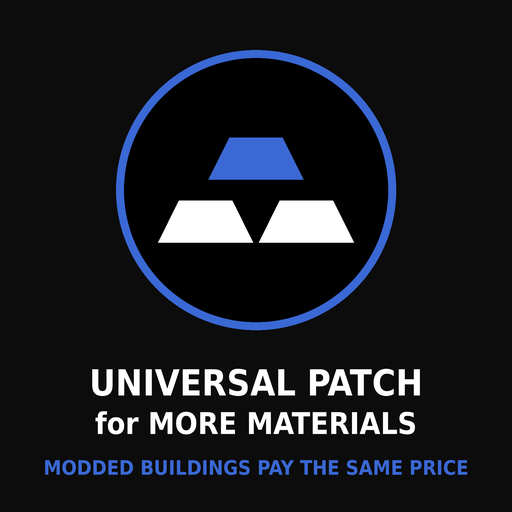
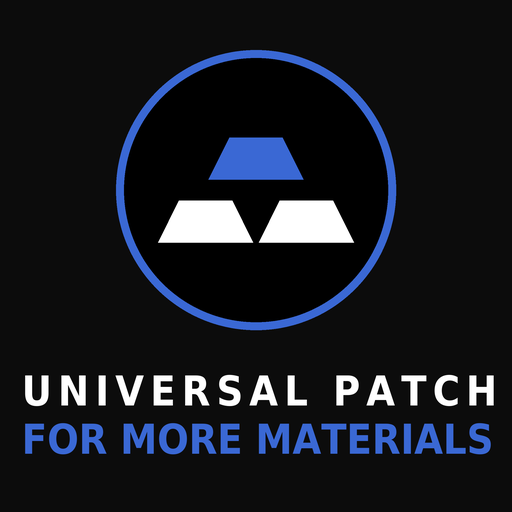
assets: align preview with the family (drop tagline, two equal tracked lines, accent line 2)
Claude-Session: https://claude.ai/code/session_01P8KGqMWXs1NiRZudGV5mNa

Changed region(s): [[0.0312, 0.7188, 0.9688, 0.9375]]

diff --git a/Media/badge_gen.py b/Media/badge_gen.py
@@ -88,16 +88,27 @@ def render_preview():
     d.ellipse([cx - r, cy - r, cx + r, cy + r], fill=BLACK, outline=INGOT, width=8 * P)
     ingots(img, d, cx, cy, P * 2.8, INGOT)
 
-    f1 = ImageFont.truetype(FONT, 36 * P)
-    f2 = ImageFont.truetype(FONT, 30 * P)
-    f3 = ImageFont.truetype(FONT, 20 * P)
-    for text, font, y, color in [
-        ("UNIVERSAL PATCH", f1, 362 * P, WHITE),
-        ("for MORE MATERIALS", f2, 406 * P, WHITE),
-        ("MODDED BUILDINGS PAY THE SAME PRICE", f3, 456 * P, INGOT),
-    ]:
-        w = d.textlength(text, font=font)
-        d.text(((W - w) / 2, y), text, font=font, fill=color)
+    def fitp(texts, max_size, max_w):
+        s = int(max_size)
+        while s > 10 and max(d.textlength(t, font=ImageFont.truetype(FONT, s)) for t in texts) > max_w:
+            s -= 1
+        return ImageFont.truetype(FONT, s)
+
+    def draw_row(text, font, cx, y, target_w, fill):
+        natural = d.textlength(text, font=font)
+        gap = (target_w - natural) / (len(text) - 1) if len(text) > 1 else 0
+        x = cx - target_w / 2
+        for ch in text:
+            d.text((x, y), ch, font=font, fill=fill)
+            x += d.textlength(ch, font=font) + gap
+
+    line1, line2 = "UNIVERSAL PATCH", "FOR MORE MATERIALS"
+    ftitle = fitp([line1, line2], 42 * P, 470 * P)
+    plh = sum(ftitle.getmetrics())
+    ytop = 367 * P
+    ptarget = max(d.textlength(line1, font=ftitle), d.textlength(line2, font=ftitle))
+    draw_row(line1, ftitle, W / 2, ytop, ptarget, WHITE)
+    draw_row(line2, ftitle, W / 2, ytop + plh, ptarget, INGOT)
     img.resize((512, 512), Image.LANCZOS).save(os.path.join(HERE, "..", "About", "Preview.png"))
     print("wrote About/Preview.png")
 
